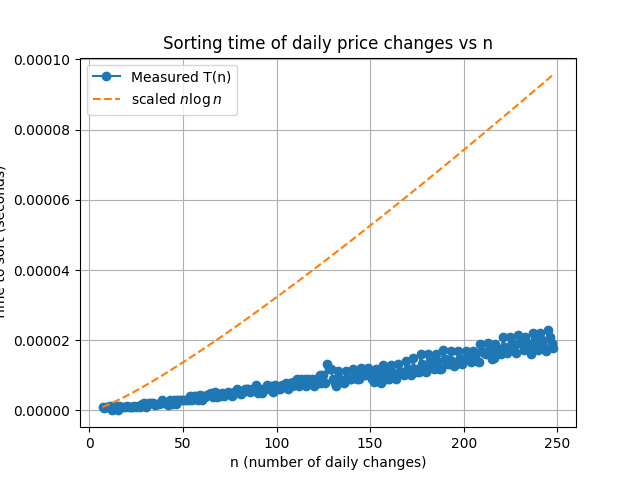
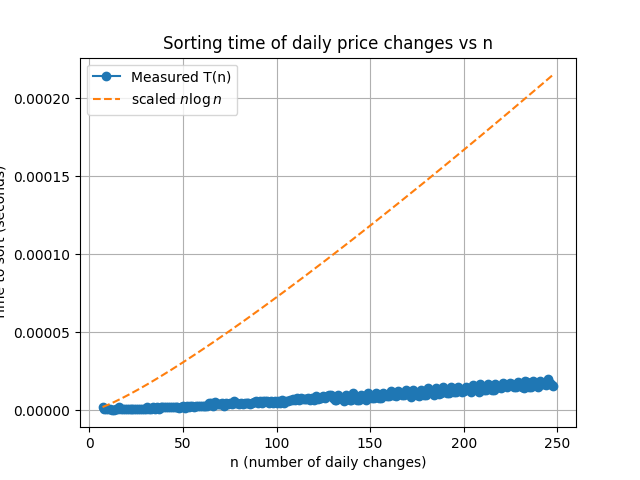
interpreting my results and commenting on my hypothesis.

diff --git a/cocacola_price_sorting.py b/cocacola_price_sorting.py
@@ -4,9 +4,11 @@ import numpy as np
 import time
 import matplotlib.pyplot as plt
 
+#change in P= Pn+1 - Pn
+#Hypothesis: The measured sorting time for T(n) should scale approximately as n log n
 
-
-#Change in P= Pn+1 - Pn
+#Results: The measures sorting time T(n) does scale approximately as n log n, confirming the hypothesis.
+#Minor deviations at small n arise from timing resolution and system noise
 
 #sorting closing prices and measuring time taken
 def sort_cocacola_prices():
@@ -21,7 +23,7 @@ def sort_cocacola_prices():
     return sorted_prices
 
 
-# For n = 7..365, time how long it takes to sort the first n daily changes
+# For n = 7->365, time how long it takes to sort the first n daily changes
 def time_sort_daily_changes():
     prices = df['Close/Last'].values
     # daily change P_{n+1} - P_n
